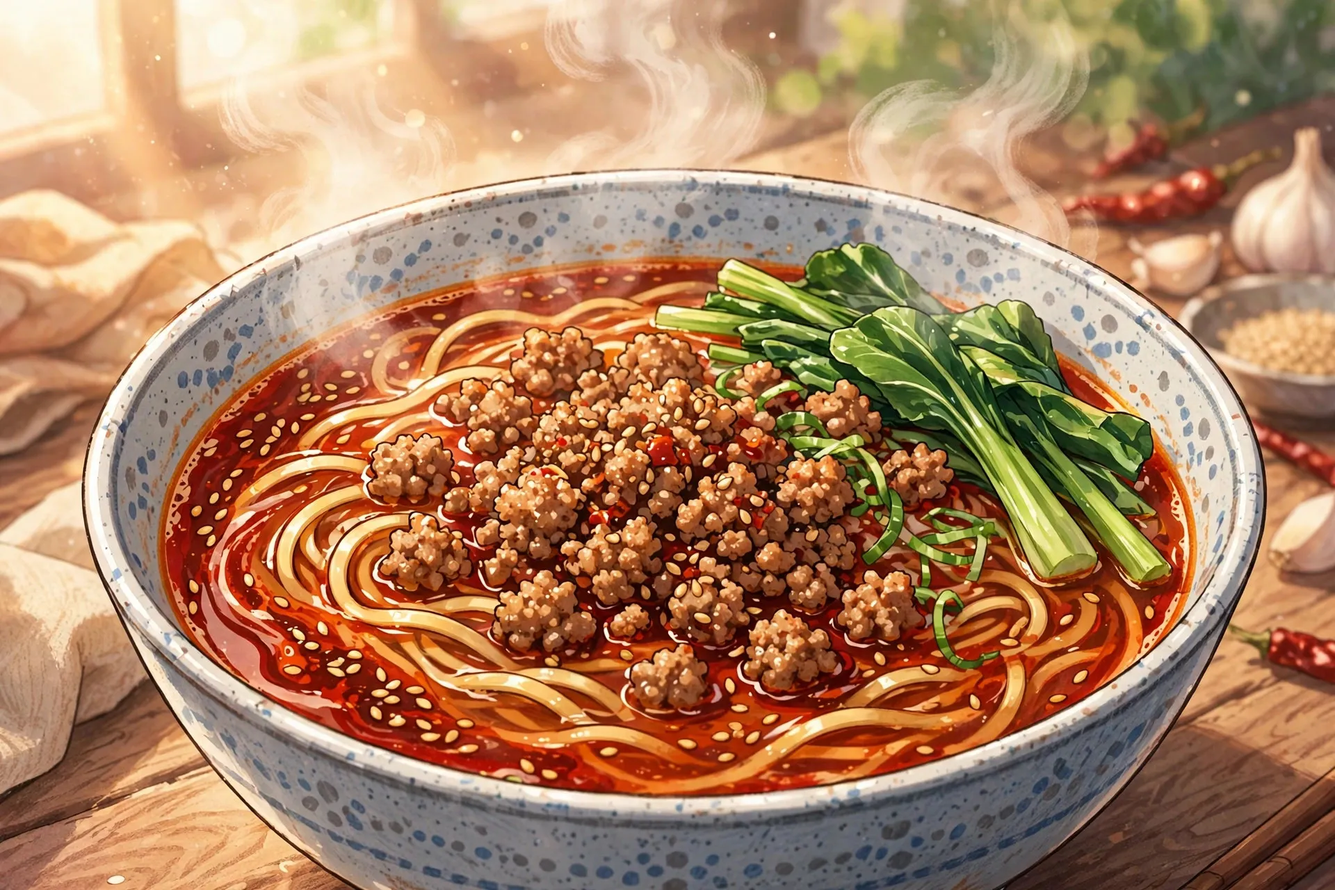
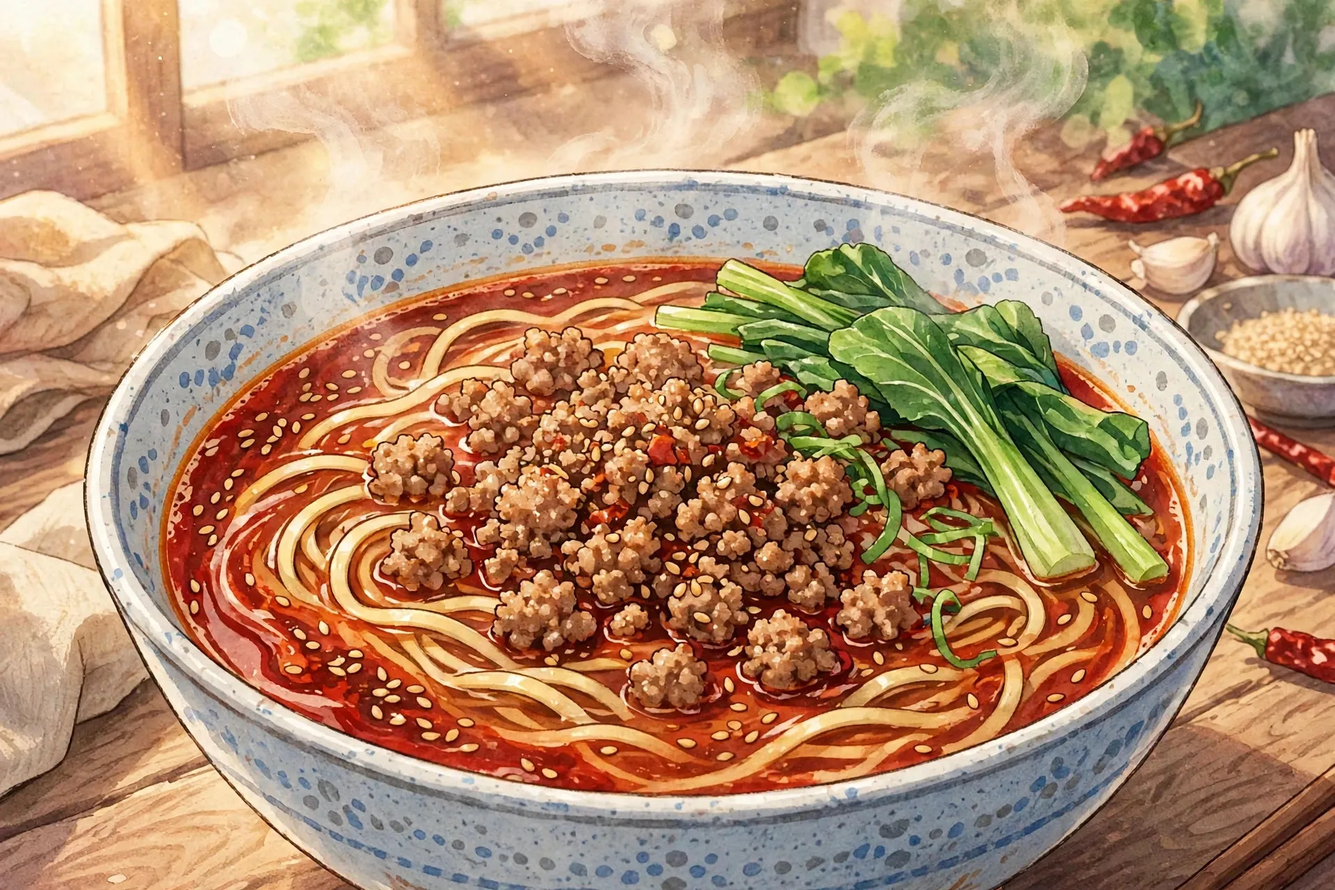
Soften gourmet covers to watercolor style

diff --git a/content/posts/gourmet/2026-10-25-nice-spot-coffee-yamadera.md b/content/posts/gourmet/2026-10-25-nice-spot-coffee-yamadera.md
@@ -4,7 +4,7 @@ date: '2026-10-25'
 category: カフェ
 summary: 山形市・山寺の登山口近くにあるコーヒーと焼き菓子のお店。地元の牛乳を使ったフラットホワイトなどが紹介されています。
 cover: gourmet/nice-spot-coffee-yamadera.webp
-cover_alt: 山寺のカフェのコーヒーと焼き菓子を描いたアニメ調イラスト
+cover_alt: 山寺のカフェのコーヒーと焼き菓子を描いた水彩調イラスト
 type: article
 source_url: https://www.instagram.com/reel/De3wvm9h1Ch/
 ---

diff --git a/content/posts/gourmet/2026-10-25-soba-cafe-yamawarau.md b/content/posts/gourmet/2026-10-25-soba-cafe-yamawarau.md
@@ -4,7 +4,7 @@ date: '2026-10-25'
 category: カフェ
 summary: 山形市のカフェの人気ランチ。山形県産米のおにぎりと6種類の小鉢が並ぶ、限定12食のワンプレートが紹介されています。
 cover: gourmet/soba-cafe-yamawarau.webp
-cover_alt: おにぎりと小鉢のワンプレートを描いたアニメ調イラスト
+cover_alt: おにぎりと小鉢のワンプレートを描いた水彩調イラスト
 type: article
 source_url: https://www.instagram.com/reel/DP1EBItkopn/
 ---

diff --git a/content/posts/gourmet/2026-10-25-benibana-yamadera.md b/content/posts/gourmet/2026-10-25-benibana-yamadera.md
@@ -4,7 +4,7 @@ date: '2026-10-25'
 category: 郷土料理
 summary: 山形市・山寺のお休み処。山形名物の芋煮を楽しめる芋煮セットや、山寺限定の紅花ジェラートが紹介されています。
 cover: gourmet/benibana-yamadera.webp
-cover_alt: 芋煮セットと紅花ジェラートを描いたアニメ調イラスト
+cover_alt: 芋煮セットと紅花ジェラートを描いた水彩調イラスト
 type: article
 source_url: https://www.instagram.com/reel/DewCTVKBmdo/
 ---

diff --git a/content/posts/gourmet/2026-10-25-tsuki-coffee-yamadera.md b/content/posts/gourmet/2026-10-25-tsuki-coffee-yamadera.md
@@ -4,7 +4,7 @@ date: '2026-10-25'
 category: カフェ
 summary: 山形市・山寺のコーヒー店。サイフォンで丁寧に抽出するスペシャルティコーヒーとスイーツのペアリングが紹介されています。
 cover: gourmet/tsuki-coffee-yamadera.webp
-cover_alt: サイフォンコーヒーを描いたアニメ調イラスト
+cover_alt: サイフォンコーヒーを描いた水彩調イラスト
 type: article
 source_url: https://www.instagram.com/reel/De1L6jHT5aK/
 ---

diff --git a/content/posts/gourmet/2026-10-25-tonpachi-imoni-tonkatsu.md b/content/posts/gourmet/2026-10-25-tonpachi-imoni-tonkatsu.md
@@ -4,7 +4,7 @@ date: '2026-10-25'
 category: その他
 summary: 山形県のローカルチェーン「とん八」。土日祝でもランチが楽しめ、季節限定の芋煮とんかつ膳が登場しています。
 cover: gourmet/tonpachi-imoni-tonkatsu.webp
-cover_alt: 芋煮ととんかつの膳を描いたアニメ調イラスト
+cover_alt: 芋煮ととんかつの膳を描いた水彩調イラスト
 type: article
 source_url: https://www.threads.com/@makoyan1028/post/Ddl3aABn98Y
 ---

diff --git a/content/posts/gourmet/2026-10-25-satonishiki-imoni-lunch.md b/content/posts/gourmet/2026-10-25-satonishiki-imoni-lunch.md
@@ -4,7 +4,7 @@ date: '2026-10-25'
 category: 郷土料理
 summary: 東根市の佐藤錦が提供する芋煮ランチ。芋煮とおにぎり、手作り惣菜のセットや、さくらんぼのスイーツが紹介されています。
 cover: gourmet/satonishiki-imoni-lunch.webp
-cover_alt: 芋煮ランチを描いたアニメ調イラスト
+cover_alt: 芋煮ランチを描いた水彩調イラスト
 type: article
 source_url: https://www.threads.com/@yu.satonishiki/post/Dc8aZ2lGlSA
 ---

diff --git a/content/posts/gourmet/2026-10-25-steak-zei-yamagata-shima.md b/content/posts/gourmet/2026-10-25-steak-zei-yamagata-shima.md
@@ -4,7 +4,7 @@ date: '2026-10-25'
 category: その他
 summary: 山形市のステーキ店の期間限定企画。リブロースの希少部位リブアイキャップを溶岩石プレートで焼くステーキが紹介されています。
 cover: gourmet/steak-zei-yamagata-shima.webp
-cover_alt: 石焼ステーキを描いたアニメ調イラスト
+cover_alt: 石焼ステーキを描いた水彩調イラスト
 type: article
 source_url: https://www.instagram.com/reel/DeoW9ACzpMA/
 ---

diff --git a/content/posts/gourmet/2026-10-25-shiraito-taki-drivein-sukiyaki.md b/content/posts/gourmet/2026-10-25-shiraito-taki-drivein-sukiyaki.md
@@ -4,7 +4,7 @@ date: '2026-10-25'
 category: その他
 summary: 白糸の滝ドライブインの山形牛すき焼き重御膳。1,300円でボリューム満点だったと紹介されています。
 cover: gourmet/shiraito-taki-drivein-sukiyaki.webp
-cover_alt: 山形牛すき焼き重を描いたアニメ調イラスト
+cover_alt: 山形牛すき焼き重を描いた水彩調イラスト
 type: article
 source_url: https://www.threads.com/@tom_tomen3939/post/DarVyOmEvC4
 ---

diff --git a/content/posts/gourmet/2026-10-25-okuyama-shokudo-murayama.md b/content/posts/gourmet/2026-10-25-okuyama-shokudo-murayama.md
@@ -4,7 +4,7 @@ date: '2026-10-25'
 category: その他
 summary: 山形県村山市の食堂。昔ながらのかまどで炊くごはんと、大きなエビフライやもつ煮込み定食が紹介されています。
 cover: gourmet/okuyama-shokudo-murayama.webp
-cover_alt: エビフライ定食を描いたアニメ調イラスト
+cover_alt: エビフライ定食を描いた水彩調イラスト
 type: article
 source_url: https://www.instagram.com/reel/DP8z8kqEzfr/
 ---

diff --git a/content/posts/gourmet/2026-10-25-kirikiri-tendo.md b/content/posts/gourmet/2026-10-25-kirikiri-tendo.md
@@ -4,7 +4,7 @@ date: '2026-10-25'
 category: その他
 summary: 天童市高擶の蕎麦処が「飯処」としてリニューアル。かき揚げ天丼と角煮、手作りプリンが評判です。
 cover: gourmet/kirikiri-tendo.webp
-cover_alt: 大きなかき揚げ天丼を描いたアニメ調イラスト
+cover_alt: 大きなかき揚げ天丼を描いた水彩調イラスト
 type: article
 source_url: https://www.threads.com/@mii.yamagata25/post/DVlFtL8kqO7
 ---

diff --git a/content/posts/gourmet/2026-10-25-tsukumodori-bento.md b/content/posts/gourmet/2026-10-25-tsukumodori-bento.md
@@ -4,7 +4,7 @@ date: '2026-10-25'
 category: 郷土料理
 summary: 昔から山形市を代表するお弁当「九十九鶏弁当」。電車の旅のお供として、地元の人の思い出に残る味です。
 cover: gourmet/tsukumodori-bento.webp
-cover_alt: 九十九鶏弁当を描いたアニメ調イラスト
+cover_alt: 九十九鶏弁当を描いた水彩調イラスト
 type: article
 source_url: https://www.threads.com/@dai.takahashi.92/post/DeLkCtJE4iy
 ---

diff --git a/content/posts/gourmet/2026-10-25-chuka-bishokuya-tendo-malatang.md b/content/posts/gourmet/2026-10-25-chuka-bishokuya-tendo-malatang.md
@@ -4,7 +4,7 @@ date: '2026-10-25'
 category: その他
 summary: 天童市の中華料理店が新しく始めたマーラータン。汁ありの麻辣湯と、汁なしの麻辣バンが紹介されています。
 cover: gourmet/chuka-bishokuya-tendo-malatang.webp
-cover_alt: マーラータンを描いたアニメ調イラスト
+cover_alt: マーラータンを描いた水彩調イラスト
 type: article
 source_url: https://www.instagram.com/reel/DeRNV-oT2SA/
 ---
